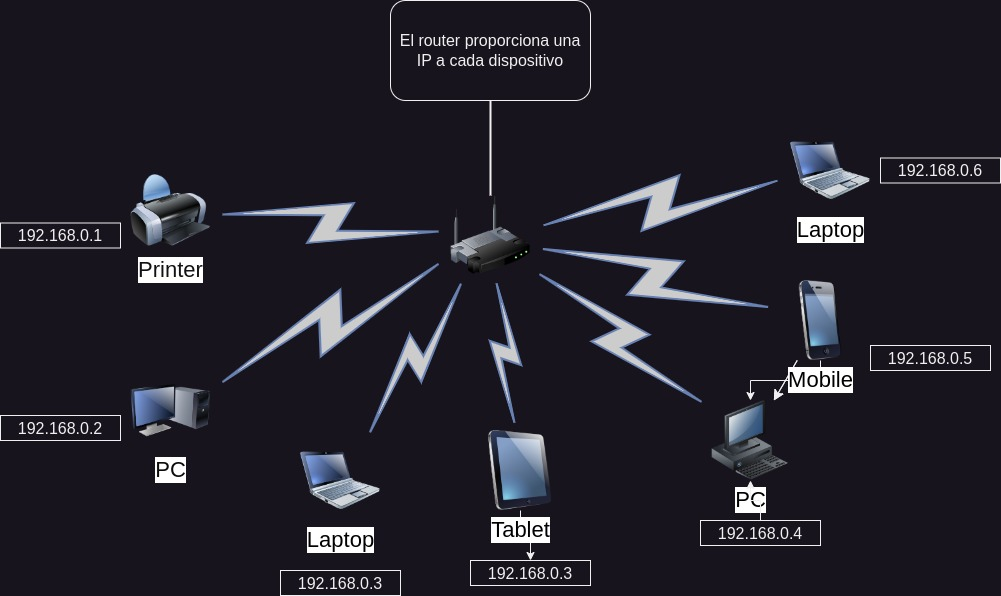
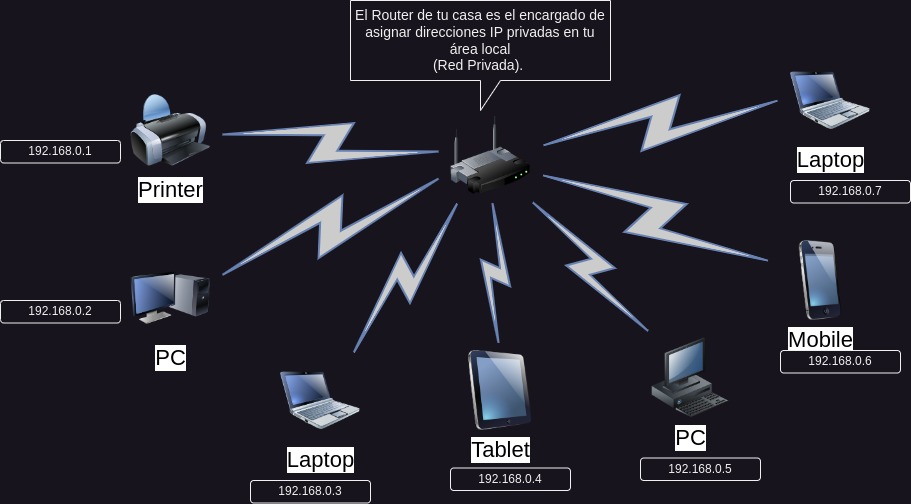
first-post-complete

Changed region(s): [[0.0, 0.0, 1.0, 1.0], [0.2766, 0.7143, 0.4303, 1.0]]

diff --git a/_posts/2023-05-10-DirecciónIP.md b/_posts/2023-05-10-DirecciónIP.md
@@ -8,8 +8,9 @@ tags:
 ---
 
 - [Introducción](#Dirección de Protocolo de Internet (IP))
-- [IP Privada](##Dirección IP Privadas)
-- [Conclusiones](#conclusiones)
+- [IP Privada](#Dirección IP Privadas)
+- [IP Pública](#Dirección IP Pública)
+- [Conclusiones](#Conclusión)
 
 
 ---
@@ -28,14 +29,46 @@ Son direcciones utilizadas en redes locales y no son accesibles directamente des
 
 **EJEMPLO**:
 
-Cuando tienes varios dispositivos conectados a tu red local (como una PC, Xbox, TV, teléfono, etc.) y te conectas a Internet a través de un enrutador, el enrutador actúa como intermediario. 
-
-El **enrutador asigna direcciones IP privadas** a cada uno de los dispositivos en tu red local, como una dirección IP privada para tu PC, otra dirección IP privada para tu Xbox, otra para tu TV, y así sucesivamente. 
+El **enrutador asigna direcciones IP privadas** a cada uno de los dispositivos en tu red local, como una dirección IP privada para tu PC, otra dirección IP privada para tu Impresora, otra para tu TV, y así sucesivamente. 
 
 >Estas direcciones IP privadas son únicas dentro de tu red local, pero no son visibles ni accesibles desde Internet.
 
 ![P1i1](/assets/images/P1/P1i1.jpg)
 
+---
+
+## Dirección IP Públicas
+
+_Dirección IP asignada a un dispositivo (enrutador) por un proveedor de servicios de Internet (ISP) y que es visible para el público en Internet._
+
+Este tipo de dirección IP se utiliza para identificar a un dispositivo en Internet y le permite comunicarse con otros dispositivos y servicios en la red.
+
+**EJEMPLO**: 
+
+Muy bien repasando el ejemplo anterior sabemos que el router es el encargado de asignar direcciones IP a cada dispositivo para que se comuniquen entre ellos por ejemplo
+
+* Necesito sacar impreso un documento desde mi computadora a tráves del Wi-fi, bueno la computadora y la impresora se van a comunicar por medio de las direcciones IP privadas de esa red local.
 
 
+![P1i2](/assets/images/P1/P1i2.jpg)
+
+
+
+Pero ahora necesito enviar un documento desde mi computadora a mi profesor ¿ Cómo se hace para comunicarse? si mi dirección IP no la puede ver nadie más que los dispositivos en mi red local. Bueno ahí es donde el router por medio del ISP (Proveedor de servicios de internet), se asigna una dirección IP en nombre de todos los dispositivos en la red, teniendo esa dirección IP pública es como se comunican en internet.
+ 
+* Resumiendo desde mi computadora le envio un documento a mi profesor, el router dice "el dispositivo al que quiero enviarle no esta dentro de mi red", entonces el router con su dirección IP pública actúa como intermediario para que el documento llegue al profesor.
+
+![P1i3](/assets/images/P1/P1i3.jpg)
+
+**Importante** las redes IP Públicas se dividen en:
+
+* **IP estática**: Las direcciones IP estáticas no tienden a cambiar en un largo tiempo estas las ocupan servidores web, ya que necesitan que los dispositivos de la red local se comuniquen entre sí, ejemplo; Netflix, google, servidores DNS, las bases de datos, etc.
+
+* **IP Dinámica**: Son asignadas por un servidor DHCP (Protocolo de configuración dinámica de host) y pueden cambiar con el tiempo. Los dispositivos domésticos y de oficina generalmente tienen direcciones IP dinámicas, ya que se les asigna una dirección IP disponible temporalmente cuando se conectan a la red.
+
+---
+
+### Conclusión
+
+Es importante destacar que si varios dispositivos se conectan a Internet a través de un enrutador o un punto de acceso, comparten la misma dirección IP pública proporcionada por el proveedor de servicios de Internet (ISP).
 

diff --git a/_posts/2023-06-2-Probando.md b/_posts/2023-06-2-Probando.md
@@ -2,7 +2,6 @@
 title: Probando Post
 layout: post
 post-image: /assets/images/P1/probando_post.png
-probando_post.png
 description: Esto es una prueba de publicación en el apartado post.
 
 ---
